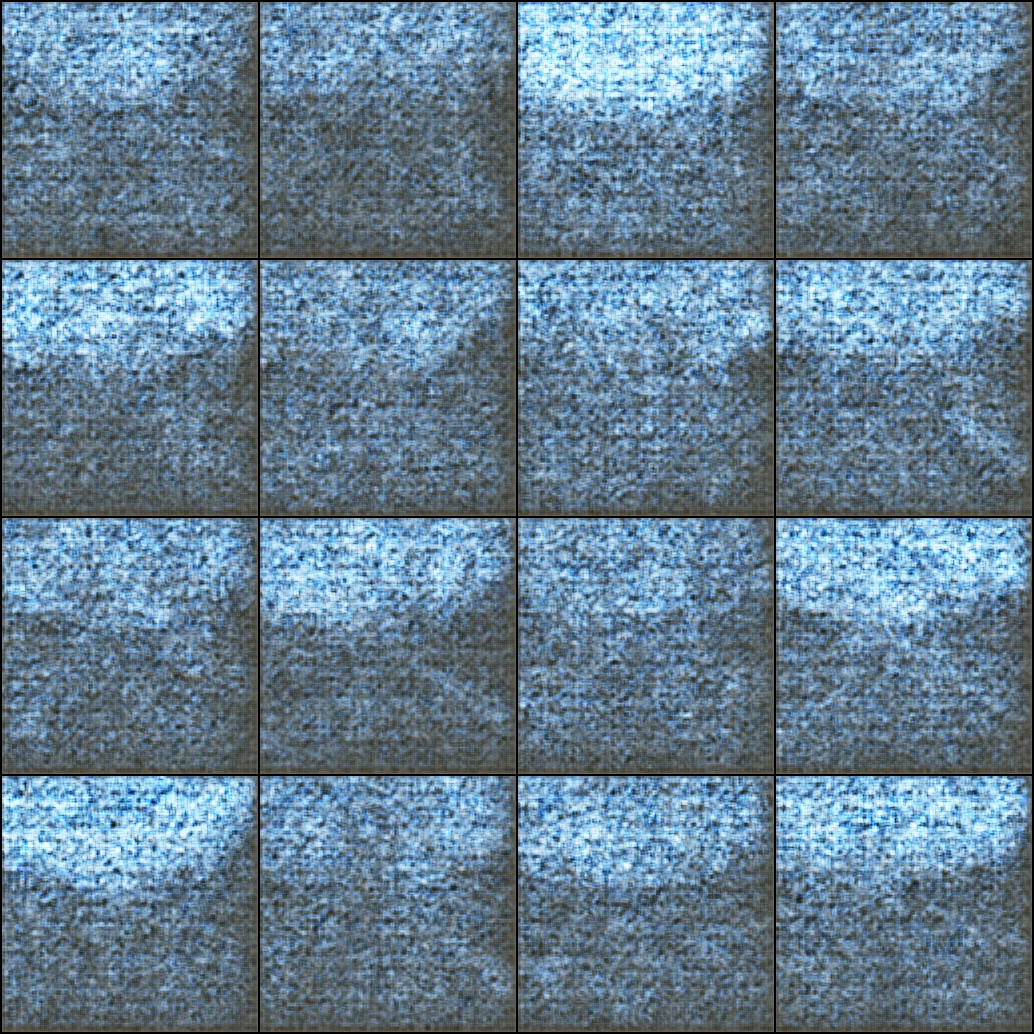
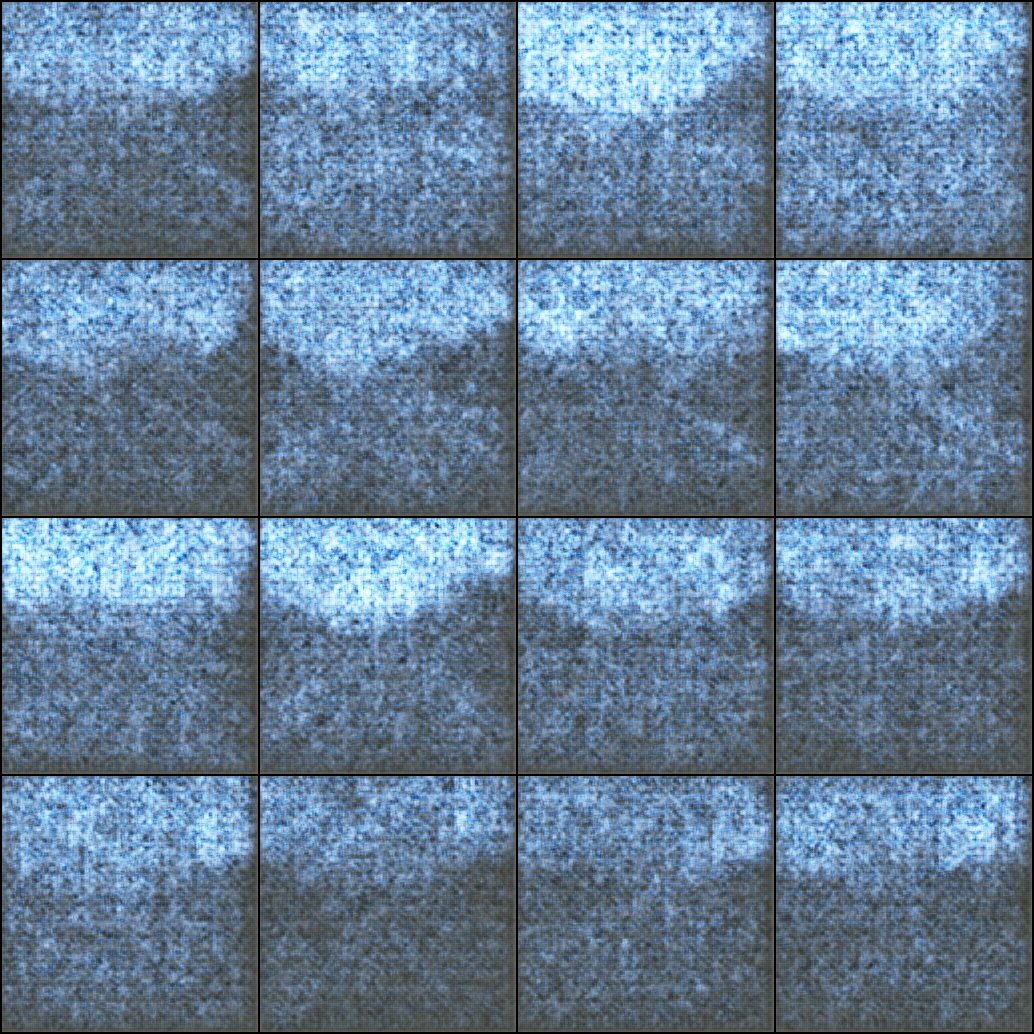
new debug

diff --git a/net.py b/net.py
@@ -341,7 +341,7 @@ class VAE(nn.Module):
         for m in self._modules:
             if cfg.weight_init == 'normal':
                 normal_init(self._modules[m], mean, std)
-            elif cfg.weight_init == 'xavier':
+            elif 'xavier' in cfg.weight_init:
                 xavier_init(self._modules[m])
 
 
@@ -472,7 +472,7 @@ class Generator(nn.Module):
         for m in self._modules:
             if cfg.weight_init == 'normal':
                 normal_init(self._modules[m], mean, std)
-            elif cfg.weight_init == 'xavier':
+            elif 'xavier' in cfg.weight_init:
                 xavier_init(self._modules[m])
 
     # forward method
@@ -642,7 +642,7 @@ class Discriminator(nn.Module):
         for m in self._modules:
             if cfg.weight_init == 'normal':
                 normal_init(self._modules[m], mean, std)
-            elif cfg.weight_init == 'xavier':
+            elif 'xavier' in cfg.weight_init:
                 xavier_init(self._modules[m])
 
     # forward method
@@ -820,7 +820,7 @@ class Encoder(nn.Module):
         for m in self._modules:
             if cfg.weight_init == 'normal':
                 normal_init(self._modules[m], mean, std)
-            elif cfg.weight_init == 'xavier':
+            elif 'xavier' in cfg.weight_init:
                 xavier_init(self._modules[m])
 
     # forward method
@@ -929,7 +929,7 @@ class ZDiscriminator(nn.Module):
         for m in self._modules:
             if cfg.weight_init == 'normal':
                 normal_init(self._modules[m], mean, std)
-            elif cfg.weight_init == 'xavier':
+            elif 'xavier' in cfg.weight_init:
                 xavier_init(self._modules[m])
 
     # forward method
@@ -960,7 +960,7 @@ class ZDiscriminator_mergebatch(nn.Module):
         for m in self._modules:
             if cfg.weight_init == 'normal':
                 normal_init(self._modules[m], mean, std)
-            elif cfg.weight_init == 'xavier':
+            elif 'xavier' in cfg.weight_init:
                 xavier_init(self._modules[m])
 
     # forward method
@@ -978,5 +978,9 @@ def normal_init(m, mean, std):
 
 def xavier_init(m):
     if isinstance(m, nn.ConvTranspose2d) or isinstance(m, nn.Conv2d) or isinstance(m, nn.Linear):
-        nn.init.xavier_uniform(m.weight)
-         m.bias.data.zero_()
+        if cfg.weight_init == "xavier_uniform":
+            nn.init.xavier_uniform(m.weight, gain=nn.init.calculate_gain('leaky_relu'))
+        elif cfg.weight_init == "xavier_normal":
+            nn.init.xavier_uniform(m.weight, gain=nn.init.calculate_gain('leaky_relu'))
+
+        m.bias.data.zero_()

diff --git a/log/prosivic/debug/configuration.py b/log/prosivic/debug/configuration.py
@@ -19,10 +19,15 @@ class Configuration(object):
     experiment_name = "debug"
     log_dir = './log/' + dataset + '/' + experiment_name + '/'
     export_results = True
+
     # Diagnostics
     sample_size = 16
     sample_rows = 4 # nrow to save_image grid
-    loss = "l2"
+
+    # Train options
+    loss = "bce"
+    weight_init = ("normal", "xavier_normal", "xavier_uniform")[1]
+
     # Testing options
     nd_original_GPND = False
     percentages = [50] # percentage of outliers to use during testing
@@ -145,6 +150,6 @@ class Configuration(object):
         out_filenames = loadbdd100k.get_namelist_from_file(out_file)
         norm_spec = [["weather", ["clear","partly cloudy", "overcast"]],["scene", "highway"],["timeofday", "daytime"]]
         out_spec = [["weather", ["rainy", "snowy", "foggy"]],["scene", "highway"],["timeofday",["daytime","dawn/dusk","night"]]]
-# Training logged at Tue, 18 Dec 2018 14:44:49 UTC
-# Total training time:	0h5m47.9s
+# Training logged at Tue, 18 Dec 2018 15:31:48 UTC
+# Total training time:	0h5m48.5s
 # Average time/epoch:	0m0.70s

diff --git a/configuration.py b/configuration.py
@@ -25,8 +25,8 @@ class Configuration(object):
     sample_rows = 4 # nrow to save_image grid
 
     # Train options
-    loss = "l2"
-    weight_init = ("normal", "xavier")[1]
+    loss = "bce"
+    weight_init = ("normal", "xavier_normal", "xavier_uniform")[1]
 
     # Testing options
     nd_original_GPND = False
